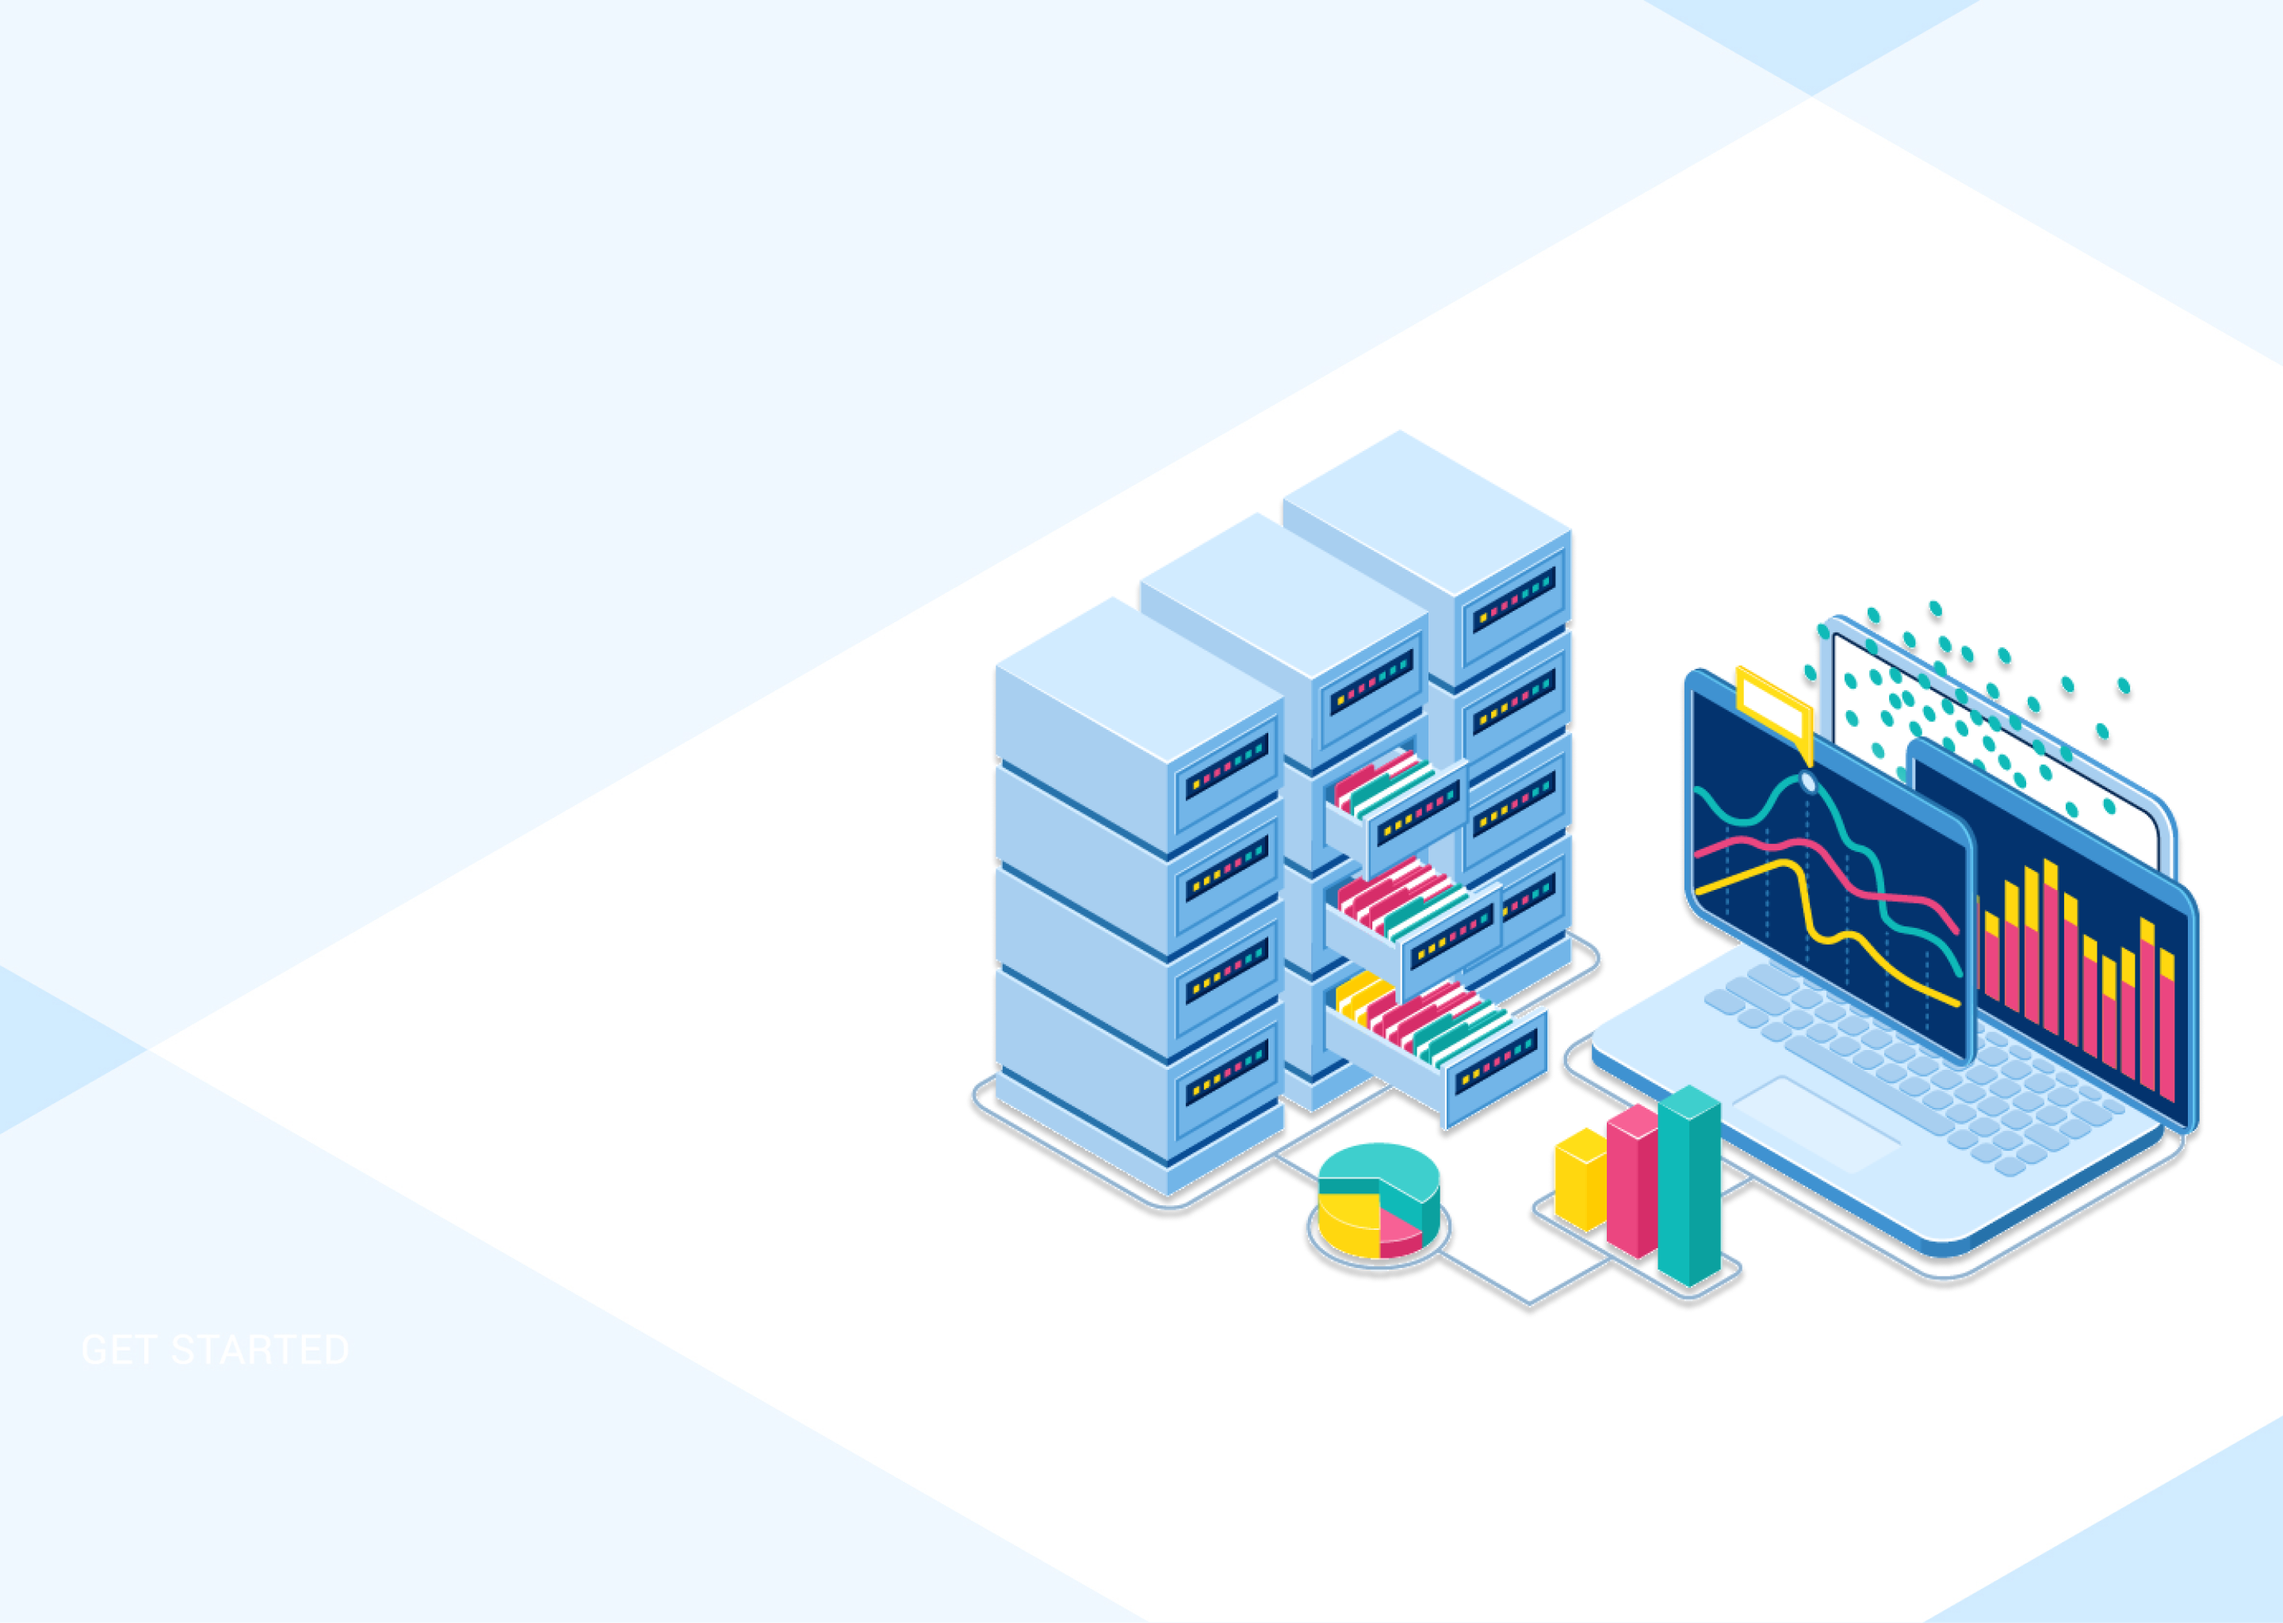
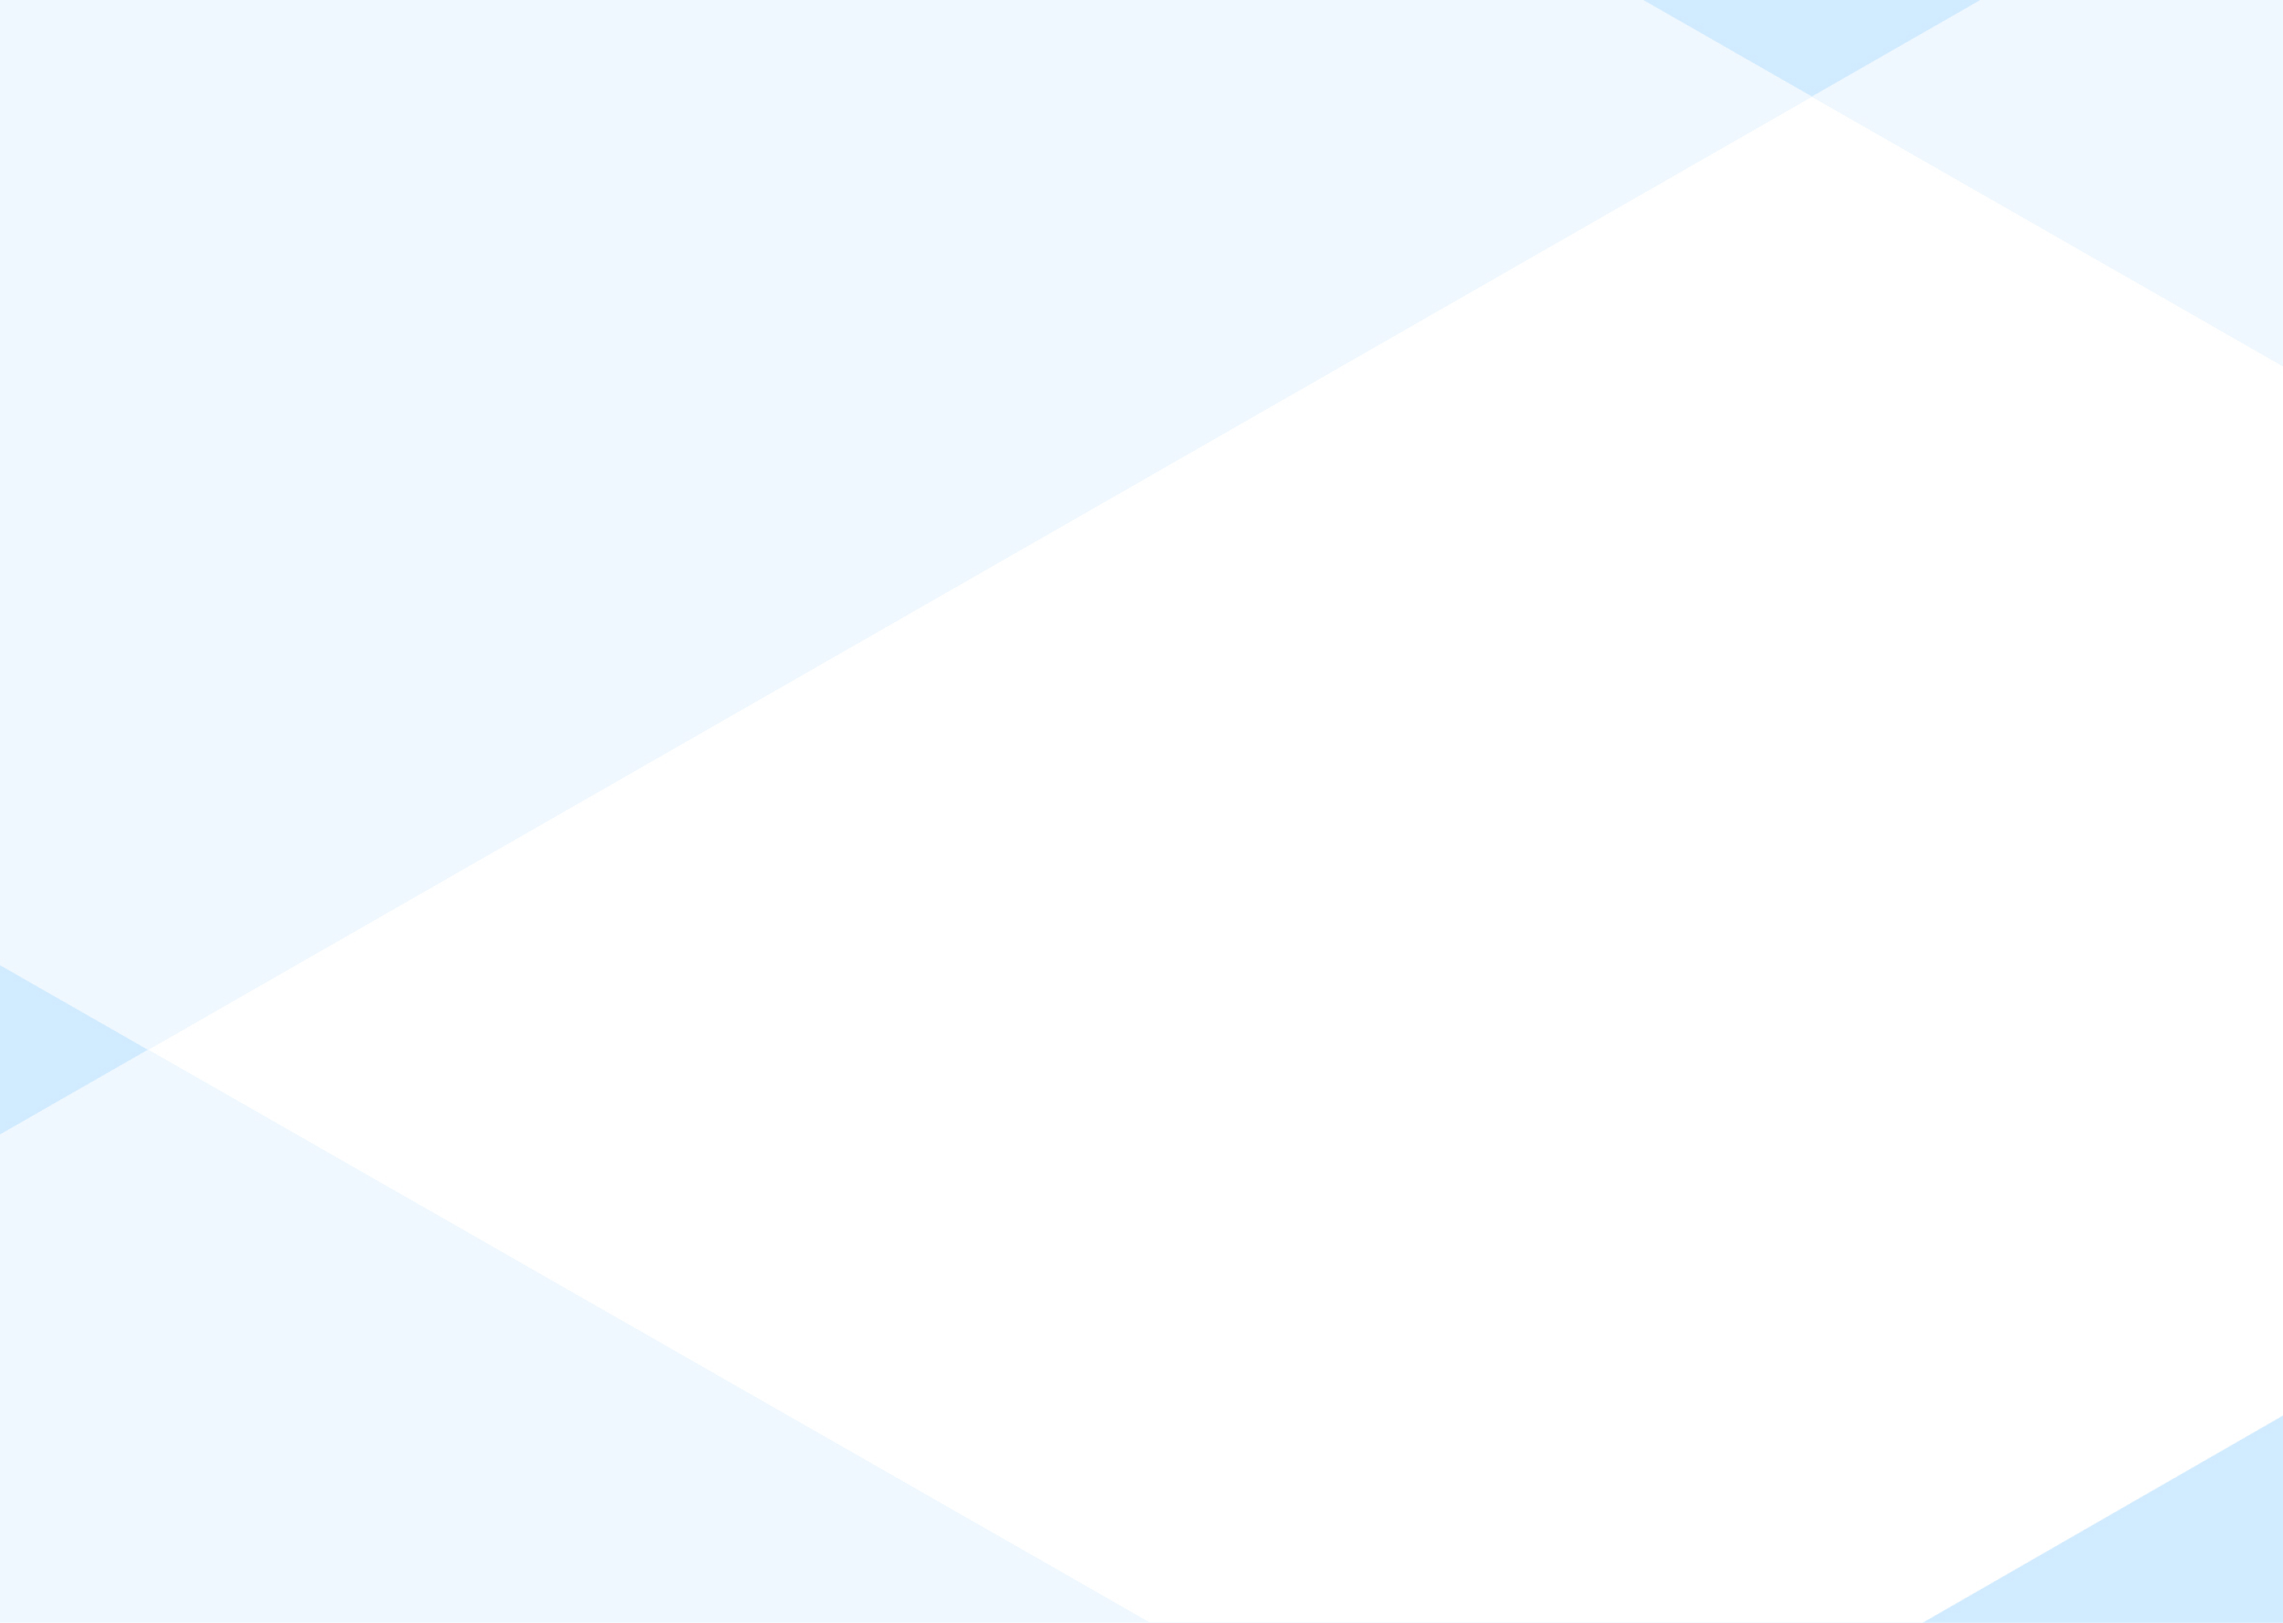
change bg and do position home page

Changed region(s): [[0.4062, 0.25, 0.9688, 0.8125]]

diff --git a/web/css/home.css b/web/css/home.css
@@ -3,29 +3,28 @@
    font-family: 'Noto Sans Thai', sans-serif;
  }
 
- h1.header{
+ .box-item{
+  flex-basis: 40%;
+  position: relative;
+  margin-left: 50px;
+ }
+ 
+ .box-item h1{
     color:rgba(60, 121, 245, 1);
+    text-align:center;
     text-shadow: 0.02em 0.03em 0.01em #333;
     font-family: 'Limelight', cursive;
-    font-size: 80px;
+    font-size: 75px;
     font-weight: 600;
-    position: relative;
-    text-align:center;
+
  }
 
- p{
+ .box-item p{
    font-family: 'Noto Sans Thai', sans-serif;
-   font-size: 20px;
+   font-size: 22px;
    font-weight: 300;
    text-align:center;
- }
 
- .bgfull{
-   background-image: url(images/bg-home);
-   height: 100%;
-   background-position: center;
-   background-repeat: no-repeat;
-   background-size: cover;
  }
 
  .buttonhome{
@@ -59,18 +58,96 @@
   }
 
   .container{
-    max-width: 960px;
-    height: 500px;
-    margin: auto;
-    text-align: center;
-    padding: 3rem;
+    max-width: 100%;
+    height: 100%;
+    text-align:center;
+    margin: 0 auto;
+    padding: 4rem;
     display: flex;
-    align-items:flex-start;
-    justify-content: left;
+    justify-content: flex-start;
+    align-items: center;
+    
   }
 
-  .child{
-    top: 50%;
-    left: 50%;
-
+  .box-item .controller{
+    width: 90%;
+    position: relative;
+    display: flex;
+    flex-basis: 60%;
+    align-items: center;
   }
+
+
+ /*large phone*/
+/*  @media only screen and (min-width:400px)and (max-width:650){
+    body{
+      background-attachment: scroll;
+    }
+    .container{
+      padding-top: 25%;
+      flex-direction: column-reverse;
+      text-align:center;
+    }
+    .box-item h1{
+      font-size: 50px;
+      font-weight: 600;
+      text-align:center;
+   }
+   .box-item p{
+    font-size: 16px;
+    font-weight: 300;
+    text-align:center;
+ 
+  }
+  .box-item{
+    flex-basis: 100%;
+    margin-bottom: 10px;
+  }
+
+  .box-item .controller{
+    width: 88%;
+  }
+
+  .buttonhome{
+    font-size: 17px;
+    line-height: 19px;
+  }
+
+  }*/
+
+  /*small phone*/
+/*  @media only screen and (max-width:380px){
+
+    body{
+      background-attachment: scroll;
+    }
+    .container{
+      padding-top: 10%;
+      flex-direction: column-reverse;
+      text-align:center;
+    }
+    .box-item h1{
+      font-size: 45px;
+      font-weight: 600;
+      text-align:center;
+   }
+   .box-item p{
+    font-size: 16px;
+    font-weight: 300;
+    text-align:center;
+ 
+  }
+  .box-item{
+    flex-basis: 100%;
+    margin-bottom: 10px;
+  }
+
+  .box-item .controller{
+    width: 88%;
+  }
+
+  .buttonhome{
+    font-size: 17px;
+    line-height: 19px;
+  }
+}*/

diff --git a/views/site/home.php b/views/site/home.php
@@ -14,21 +14,30 @@
 <link rel="stylesheet" href="css/home.css">
 
 </head>
-<body class="img js-fullheight" style="background-image: url(images/coverhome.png); height: 100px; background-position: center; background-repeat: no-repeat; background-size: cover; object-fit:cover;">
-    
+<body class="img js-fullheight" style="background-image: url(images/bghome.png); height: 100px; background-position: center; background-repeat: no-repeat; background-size: cover; object-fit:cover;">
   <div class="container">
-    <div class="child">
-      <div class="col-4 col-s-8">
-
-        <h1 class="header">Smart <br>Dashboard</h1>
-    
-        <p>ระบบแดชบอร์ดอัจฉริยะเป็นระบบหน้าจอที่สรุปข้อมูลทุกอย่างให้อยู่ในหน้าจอเดียวเพื่อให้ผู้บริหารดูข้อมูลแล้วสามารถเข้าใจได้ทันที</p>
-      
-        <div style="text-align:center;"><a href="index.php?r=site%2Flogin" ><button class="buttonhome button2" role="button"> เข้าสู่ระบบ </button></a></div>
-      
+    <div class="row">
+      <div class="col-sm-6 ">
+        <div class="box-item">
+            <h1 > Smart <br>Dashboard</h1>
+        
+            <p>ระบบแดชบอร์ดอัจฉริยะ
+              <br>เป็นระบบหน้าจอที่สรุปข้อมูลให้อยู่ในหน้าจอเดียว
+              <br>เพื่อให้ผู้บริหารดูข้อมูลแล้วสามารถเข้าใจได้ทันที</p><br>
+          
+            <div style="text-align:center;"><a href="index.php?r=site%2Flogin" ><button class="buttonhome button2" role="button"> เข้าสู่ระบบ </button></a></div>
+          
+        </div>
       </div>
+
+      <div class="col-sm-6 ">
+		    <div class="box-item">
+          <img src="images/bgobjecthomee.png" class="controller">
+        </div>
+      </div>
+
     </div>
   </div>
-
-</body>
+  
+  </body>
 </html>
